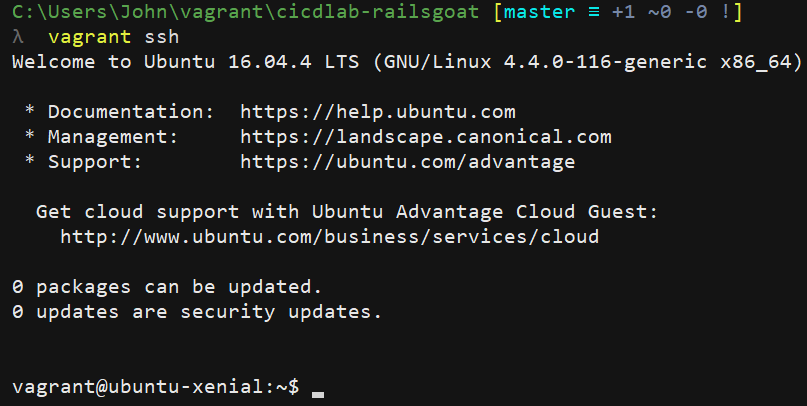
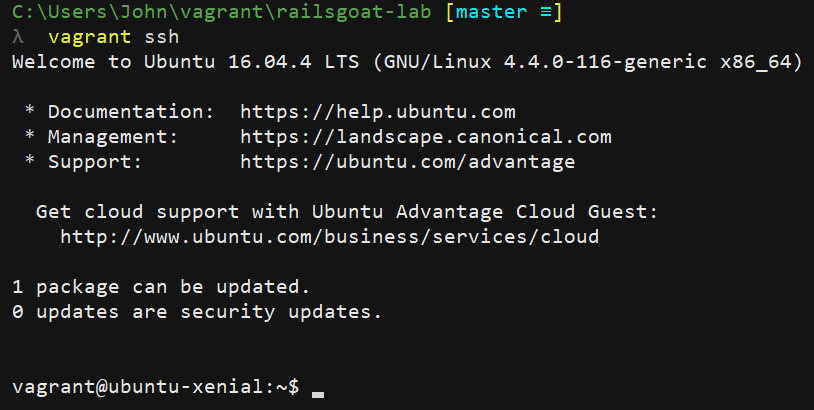
experimenting with screenshots for README

diff --git a/README.md b/README.md
@@ -28,7 +28,8 @@ The lab environment is heavily automated. Key elements:
 ### Initial Setup
 1. On a host meeting the prereqs, clone this repo: `git clone https://github.com/dachiefjustice/railsgoat-lab`
 2. `cd` into the cloned repo, `vagrant up`. Good time to grab a coffee, lots of downloading and installing is about to happen.
-3. Once the Vagrant VM is done setting up, `vagrant ssh` on in. You'll know it's done once the previous `vagrant up` returns to a prompt in your shell.
+3. Once the Vagrant VM is done setting up, `vagrant ssh` in. You'll know it's done once the previous `vagrant up` returns to a prompt in your shell.
+![vagrant ssh](screenhots/02_vagrantssh.png)
 4. Time to set up Jenkins, which is running on port 8080 in the VM and is exposed from the VM to your Vagrant host. Open http://localhost:8080 in a browser on your Vagrant host.
 5. Jenkins sets a random initial password, you'll need this to log in. In the VM `sudo cat /var/lib/jenkins/secrets/initialAdminPassword`, copy/paste into the browser, and move to the next screen.
 6. Install the suggested plugins, the lab makes use of some of them (notably Pipeline and Git).
